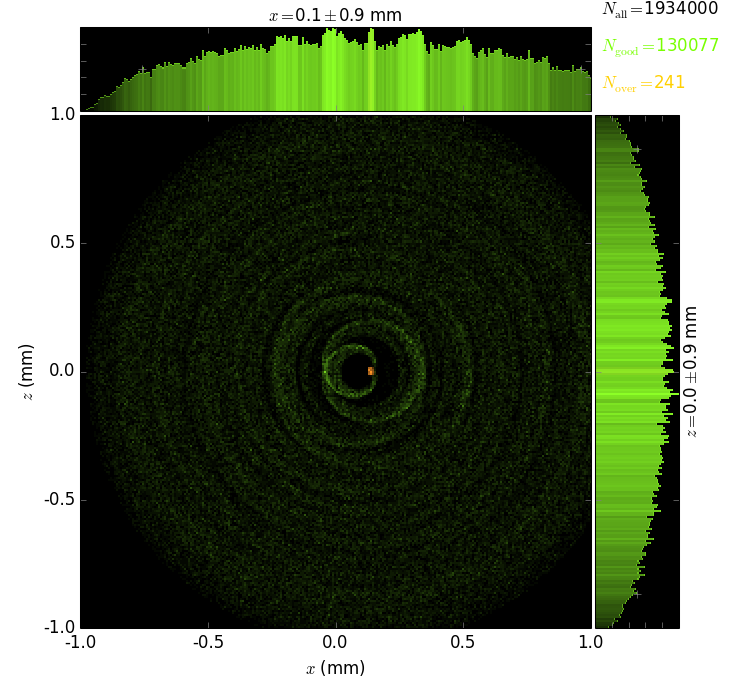
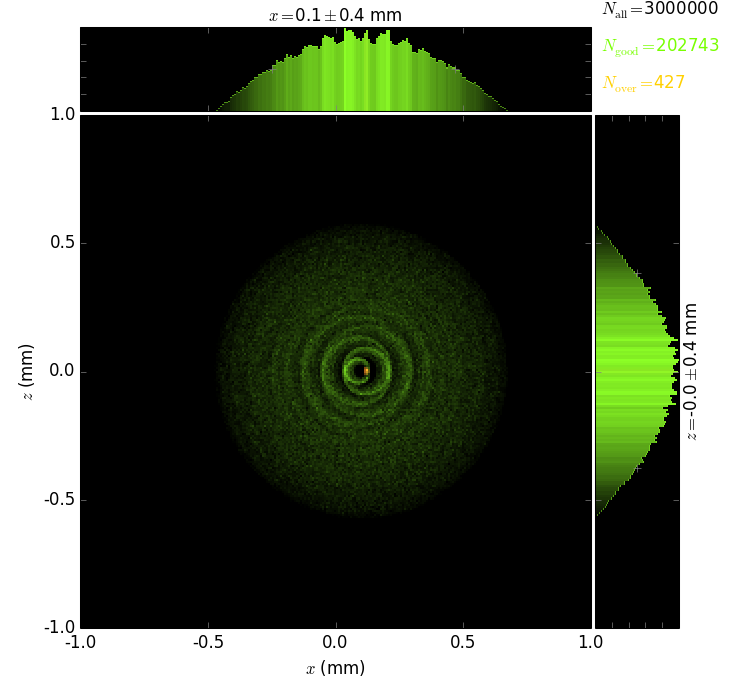
Connical with tilt
testing different parameters

Changed region(s): [[0.1237, 0.0, 0.9583, 0.932], [0.8656, 0.0311, 0.9583, 0.1243], [0.8656, 0.0, 0.9274, 0.0311]]

diff --git a/StraightCapillary.py b/StraightCapillary.py
@@ -25,6 +25,7 @@ repeats = 3000 # number of ray traycing iterations
 E0 = 9000.
 rSample = 100. # starting position of the lens
 f = 330. # y length in mm from foucs to the end of the lens
+screen2_pos = f + 50
 r0 = 0.071
 rOut = 0.012
 wall = 0.02
@@ -122,7 +123,7 @@ def build_beamline(nrays=1000):
     
     n=1     # one layer..
     beamLine.sources[0].dxprime = 0, np.arcsin((2*n+1) * (r0+wall) / rSample)
-    beamLine.fsm2 = rsc.Screen(beamLine,'DiamondFSM2', (0,f+110,0))
+    beamLine.fsm2 = rsc.Screen(beamLine,'DiamondFSM2', (0,screen2_pos,0))
     return beamLine
     
     
